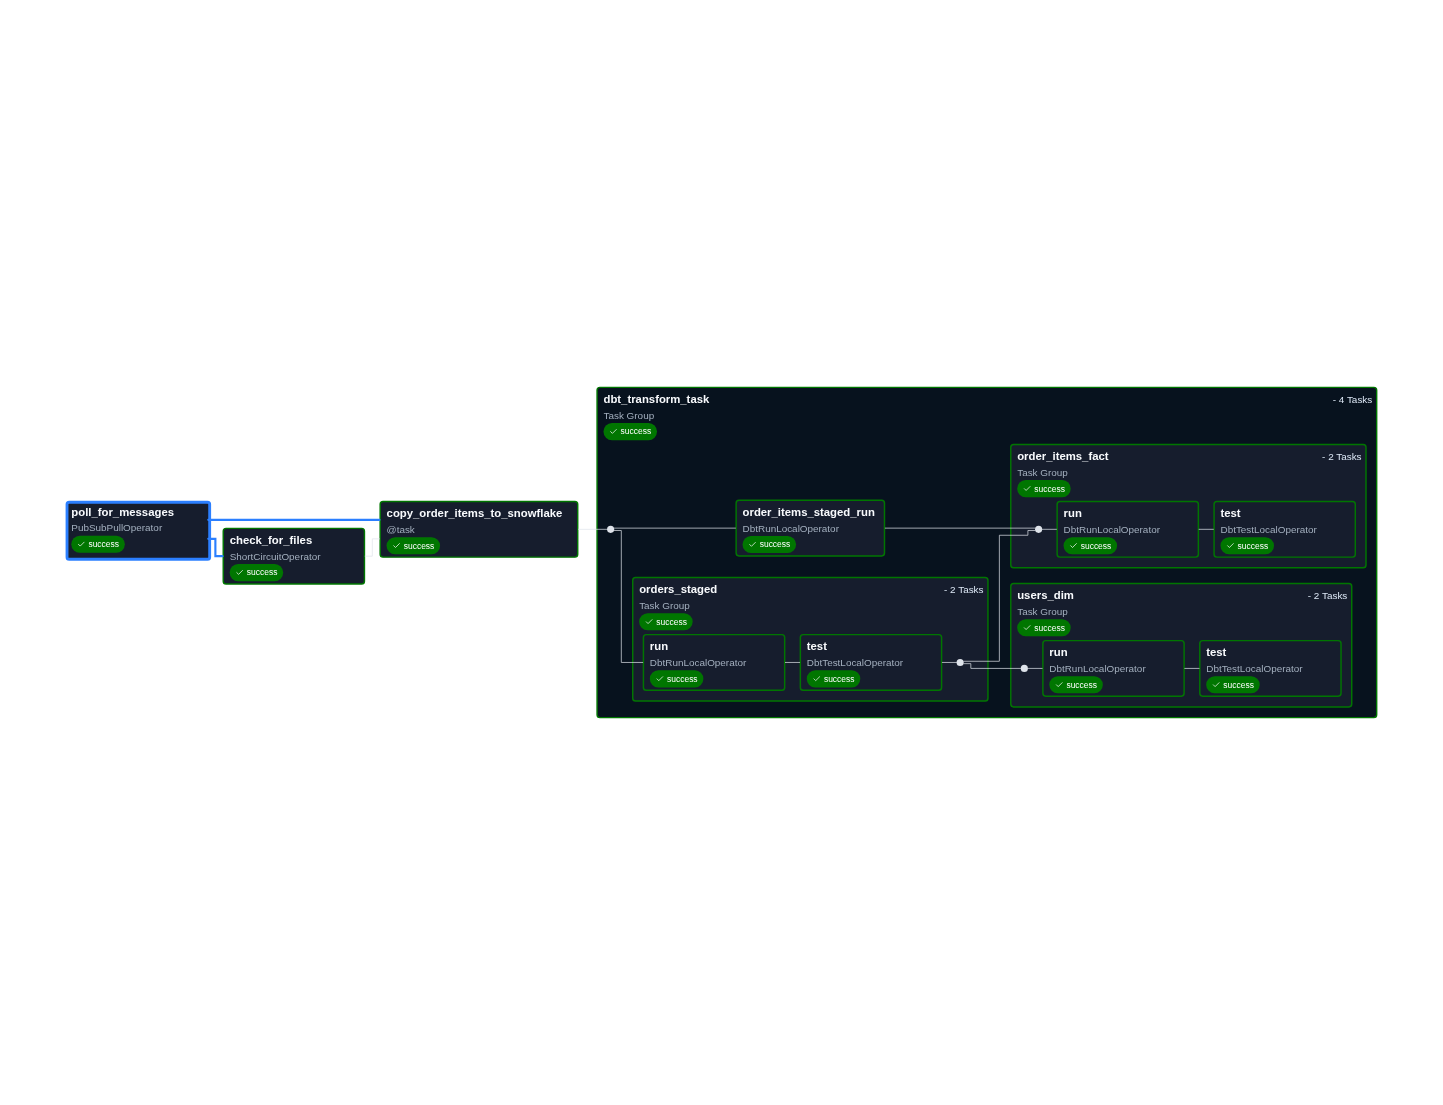
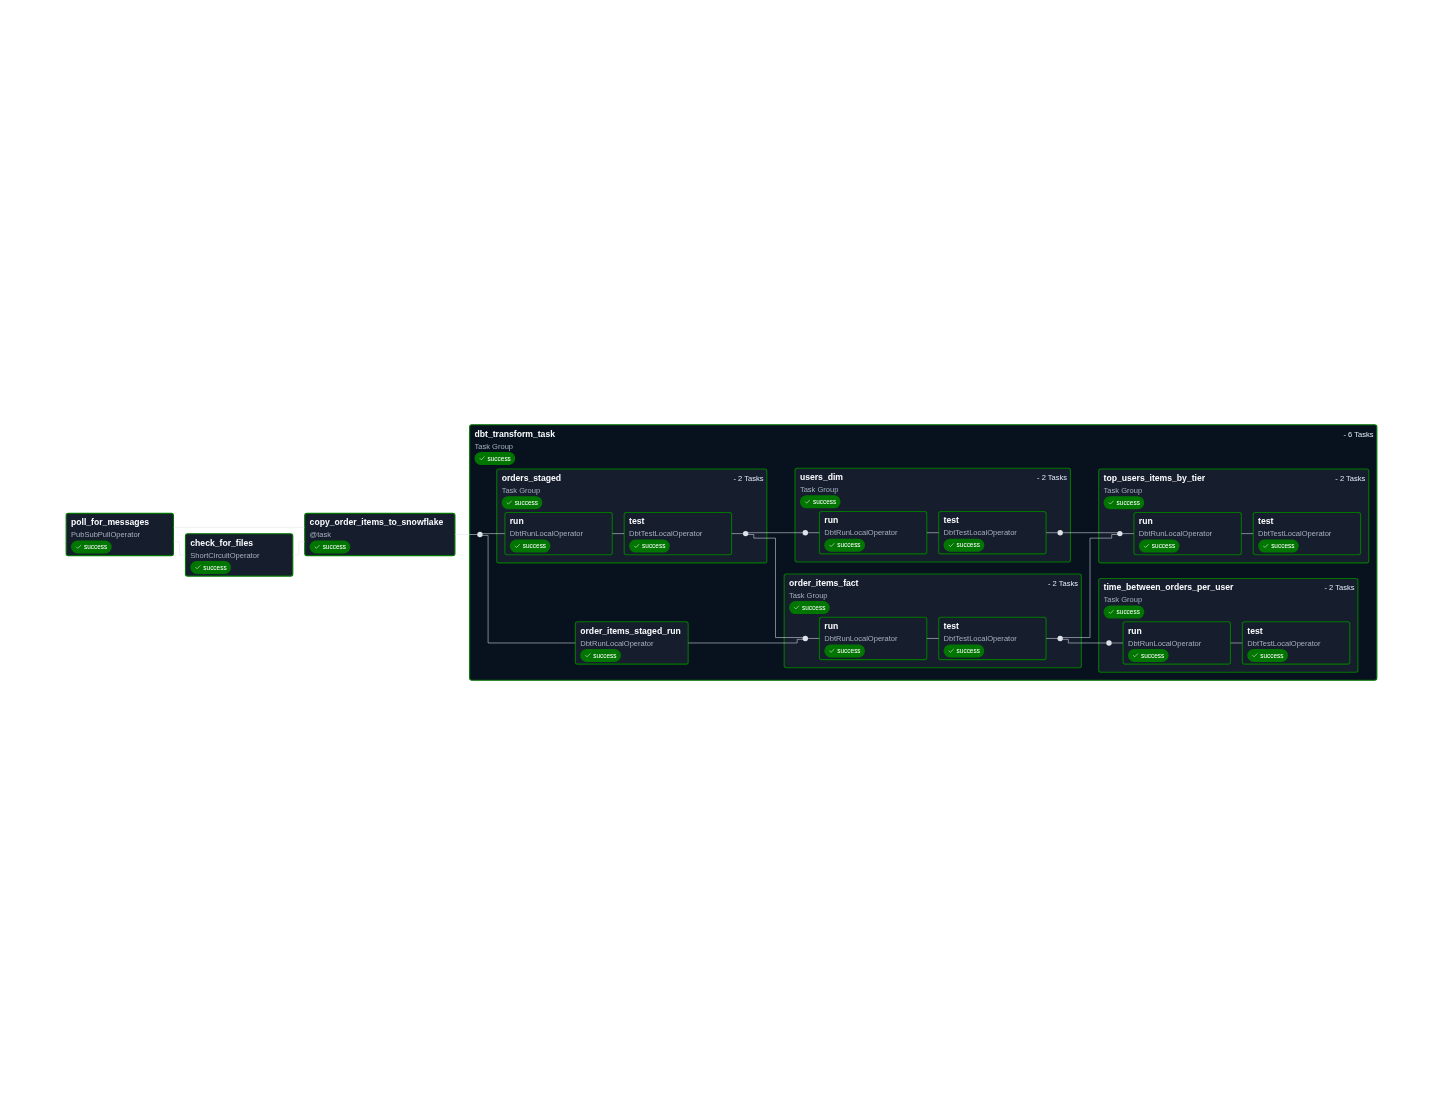
Updated docs for mart

Changed region(s): [[0.0312, 0.3385, 0.9667, 0.6769]]

diff --git a/README.md b/README.md
@@ -6,13 +6,18 @@ This repository serves as a reference architecture for a modern data stack. It d
 
 The architecture focuses on high data quality, automated documentation, and native orchestration.
 
+* **Ingestion:** CSV files are hosted in **Google Cloud Storage (GCS)** and ingested into **Snowflake** via External Stages.
 * **Snowflake:** Functions as the centralized Cloud Data Warehouse.
-* **dbt (data build tool):** Handles the transformation layer, including the implementation of **SCD Type 2** logic for dimensions and the creation of final Fact/Dimension tables.
+* **dbt (data build tool):** Handles the transformation layer, including:
+    * **SCD Type 2** logic for dimensions.
+    * Creation of final **Fact/Dimension** tables.
+    * **Mart Layer:** A business-ready layer providing high-level metrics (e.g., Top Users, Time Between Orders).
 * **Airflow (Astronomer):** Orchestrates the entire workflow. It utilizes the **astronomer-cosmos** SDK to render dbt models as native Airflow tasks.
 * **Data Source:** Synthetic dataset sourced from Kaggle, but it can also be found under the data directory.
 
 ### Key Features
 * **Custom SCD2 Logic:** Instead of using standard dbt snapshots, this project implements custom SCD2 logic to transform and merge data directly, avoiding unnecessary intermediate tables.
+* **Business Intelligence Marts:** Specialized models designed for reporting, featuring complex window functions to calculate behavior metrics like user purchase frequency.
 * **Data Quality:** Includes comprehensive unit tests and data tests using `dbt-expectations`.
 * **Enhanced Orchestration:** By using Astronomer over GCP Composer, the project benefits from Airflow 3.1 features and a superior local development experience.
 
@@ -25,8 +30,13 @@ The Airflow DAGs are broken down by functional area. Below are the visual repres
 ### Dimension Table Pipeline
 ![Dimension pipeline](images/dimension-graph.png)
 * Both `users_dim` and `products_dim` are generated using similar pipelines.
-### Fact Table Pipeline
+
+### Fact & Mart Table Pipeline
 ![Fact pipeline](images/fact-graph.png)
+* Following the Fact table creation, the **Mart** layer generates business metrics such as:
+    * **Top Users:** Ranked by lifetime value and order volume.
+    * **Time Between Orders:** Calculating customer retention and purchase cycles.
+
 ---
 
 ## Getting Started
@@ -35,16 +45,16 @@ Follow these steps to set up and run the reference project:
 
 1.  **Snowflake Setup:**
     Execute the scripts located in `snowflake-setup/*.sql`.
-    > **Note:** Ensure you replace all placeholders (e.g., `<< your bucket >> = actual_bucket_name`) before execution.
+    > **Note:** Ensure you replace all placeholders (e.g., `STORAGE_ALLOWED_LOCATIONS = ('gcs://your-bucket-name/')`) before execution.
 
 2.  **dbt Configuration:**
     Generate a `profiles.yml` file for the dbt project to connect to your Snowflake instance.
 
 3.  **Cloud Infrastructure:**
-    Refer to `gcp-permissions.sh` to configure the necessary GCP Pub/Sub components and Cloud Storage buckets required for the raw data.
+    Refer to `gcp-permissions.sh` to configure the necessary GCP IAM roles and **GCS buckets** required for the raw CSV data ingestion.
 
 4.  **Local Airflow Development:**
-    Install the [Astro CLI](https://www.astronomer.io/snowflake/). Once installed, navigate to the project root and run:
+    Install the [Astro CLI](https://www.astronomer.io/docs/astro/cli/overview), and update the volume path in `docker-compose.override.yml`. Once installed, navigate to the project root and run:
     ```bash
     astro dev start
     ```
@@ -66,5 +76,5 @@ While this is a functional reference architecture, the following enhancements ar
 
 * **Infrastructure Optimization:** Right-size Snowflake warehouses and implement clustering for high-volume datasets.
 * **Security (Least Privilege):** Fine-tune the `TRANSFORM` role and apply restrictive Network Policies for the `dbt_user`.
-* **Event-Driven Ingestion:** Transition from polling-based DAG triggers to event-driven triggers (e.g., via SQS/PubSub notifications).
+* **Event-Driven Ingestion:** Transition from polling-based DAG triggers to event-driven triggers (e.g., via GCS Pub/Sub notifications to Snowflake Snowpipe).
 * **Observability:** Implement automated alerting (Slack/PagerDuty) specifically for dbt test failures to ensure immediate remediation.
